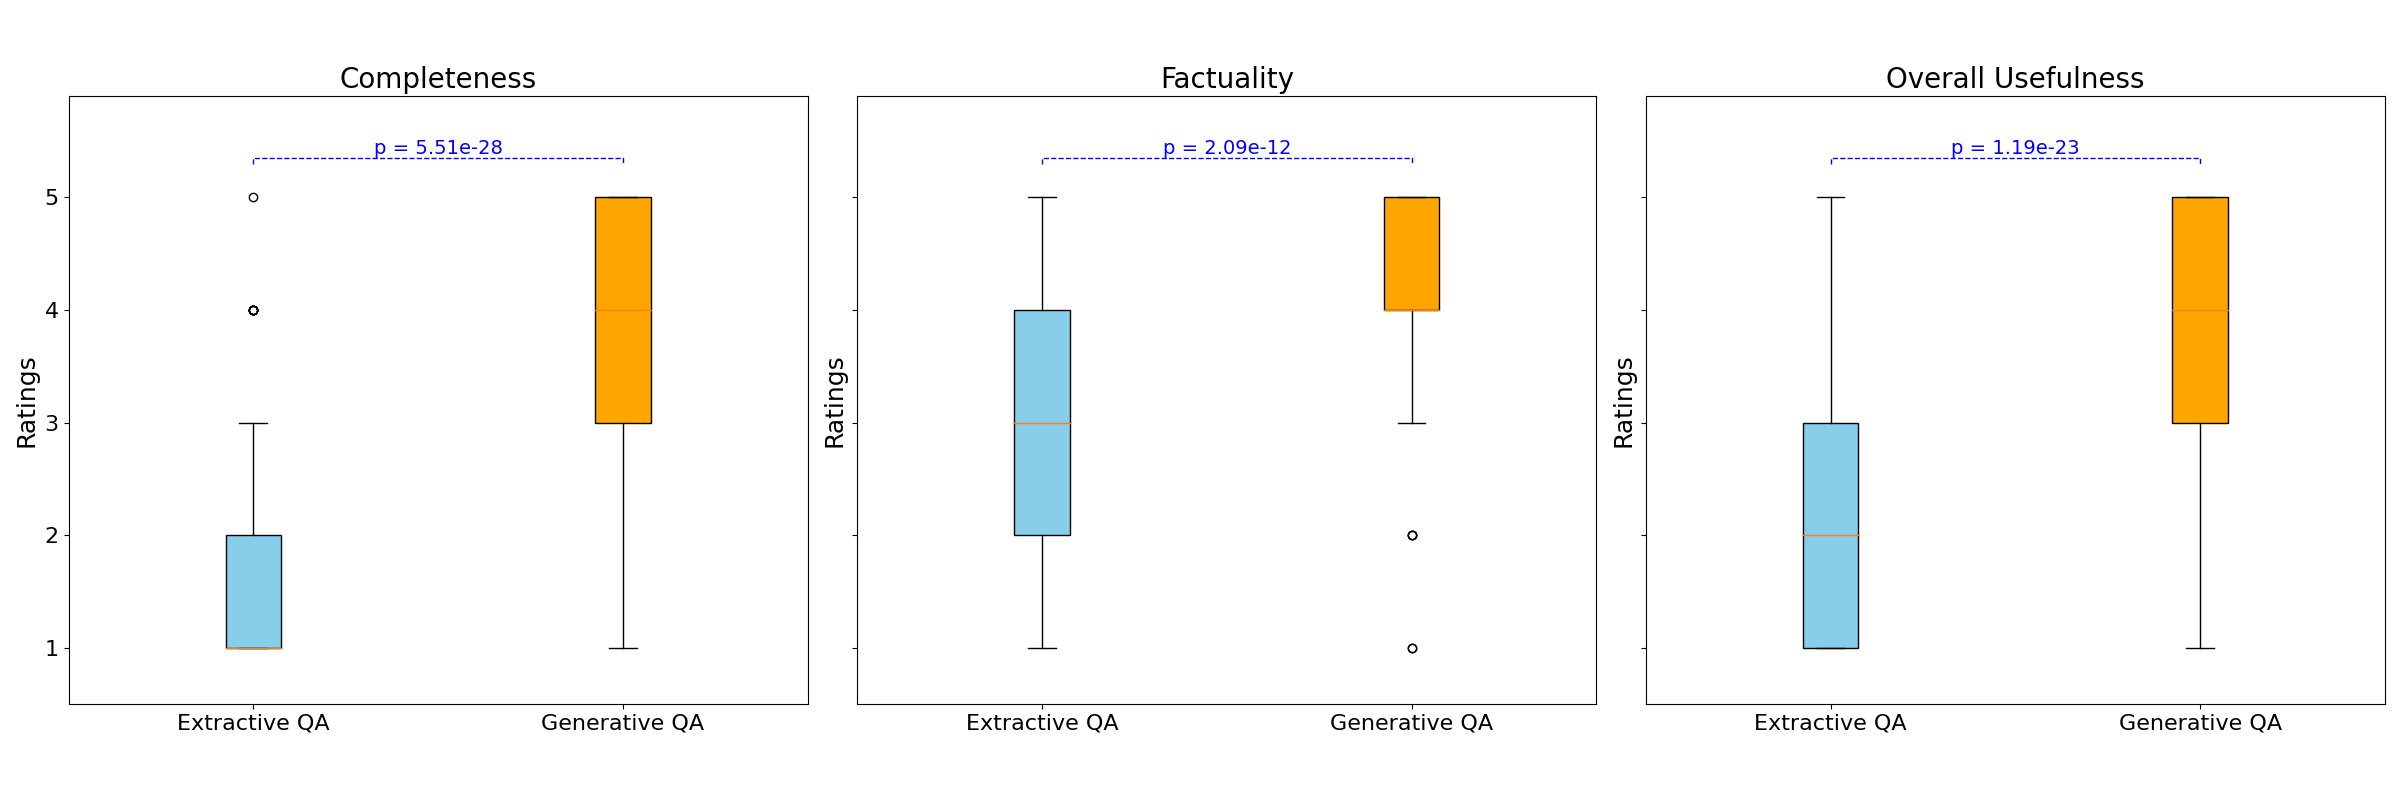
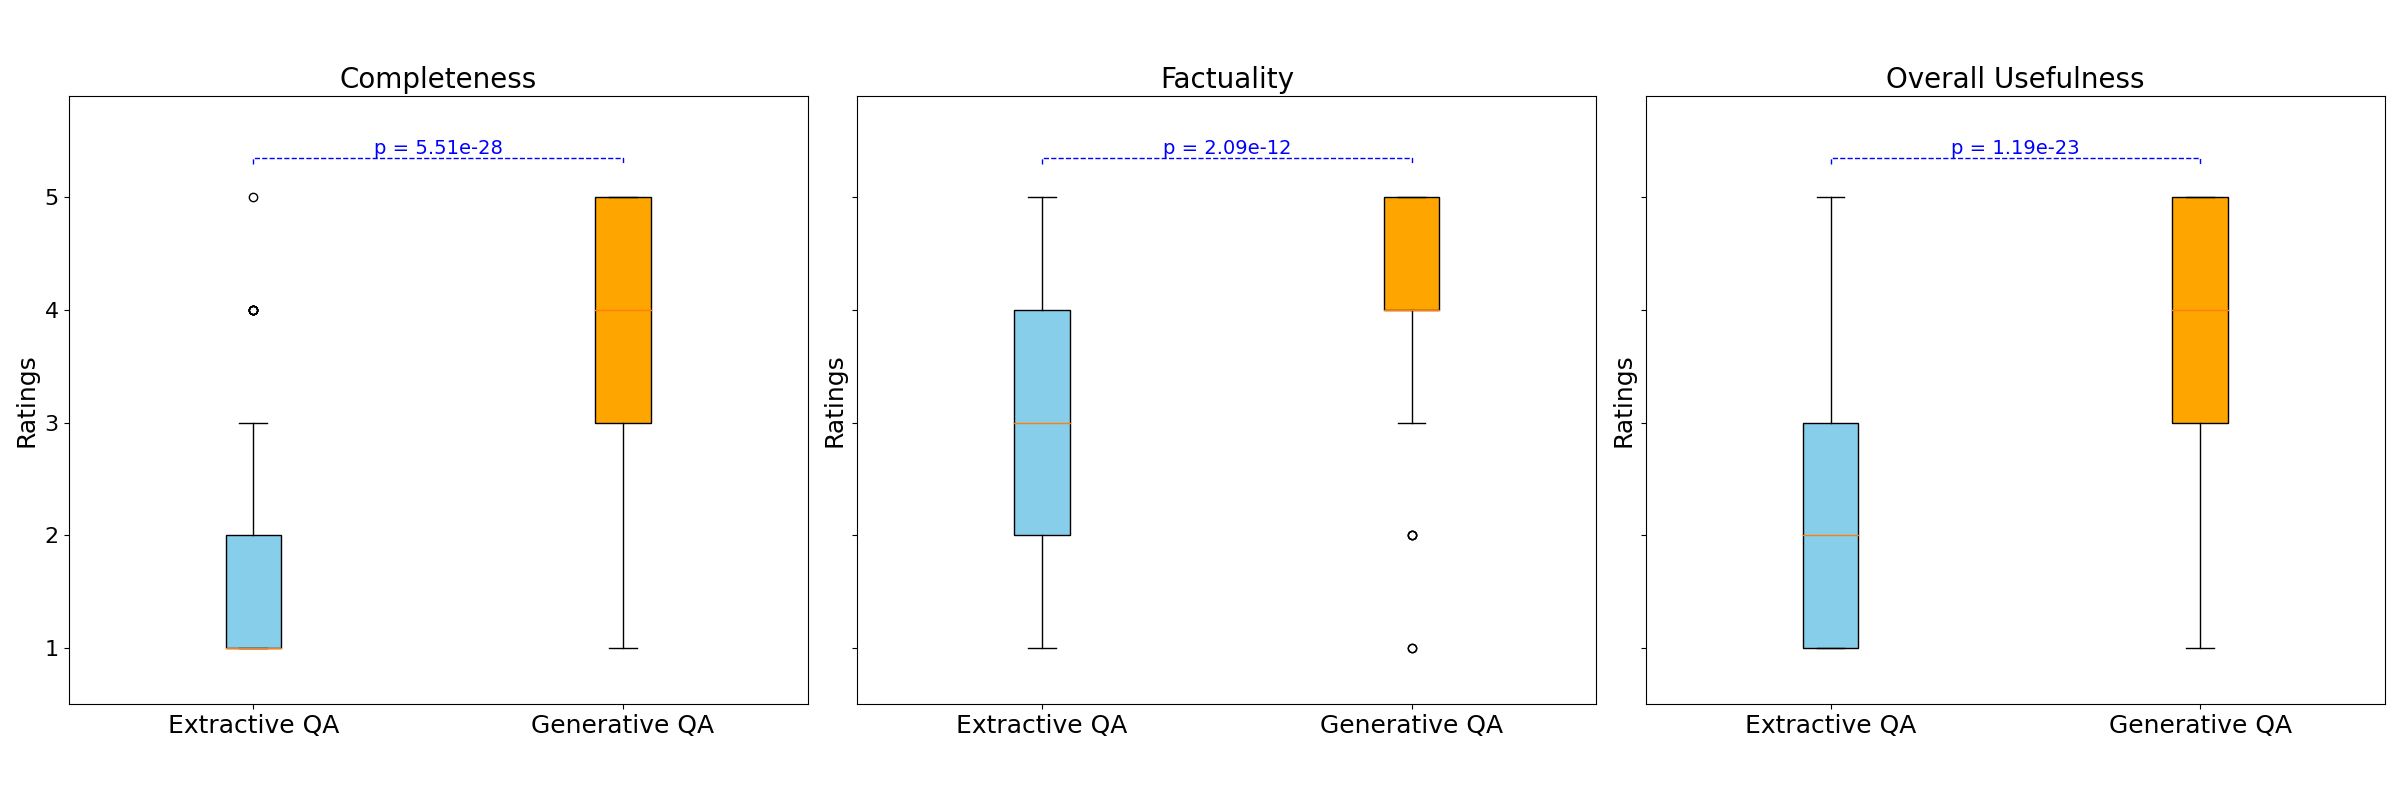
changed font sizes

diff --git a/analyze_results/visualize_results.py b/analyze_results/visualize_results.py
@@ -62,7 +62,7 @@ def plot_box_plots(df, category):
         axes[i].tick_params(axis='y', which='major', labelsize=16)  # Increase y-axis tick label size
 
         # Set x-axis tick label size (system labels)
-        axes[i].tick_params(axis='x', labelsize=16)  # Increase x-axis tick label (system labels) font size
+        axes[i].tick_params(axis='x', labelsize=18)  # Increase x-axis tick label (system labels) font size
 
         axes[i].set_ylim(0.5, 5.9)  # Adjust y-axis to create more space (lower limit 0.5, upper limit 5.7)
 
